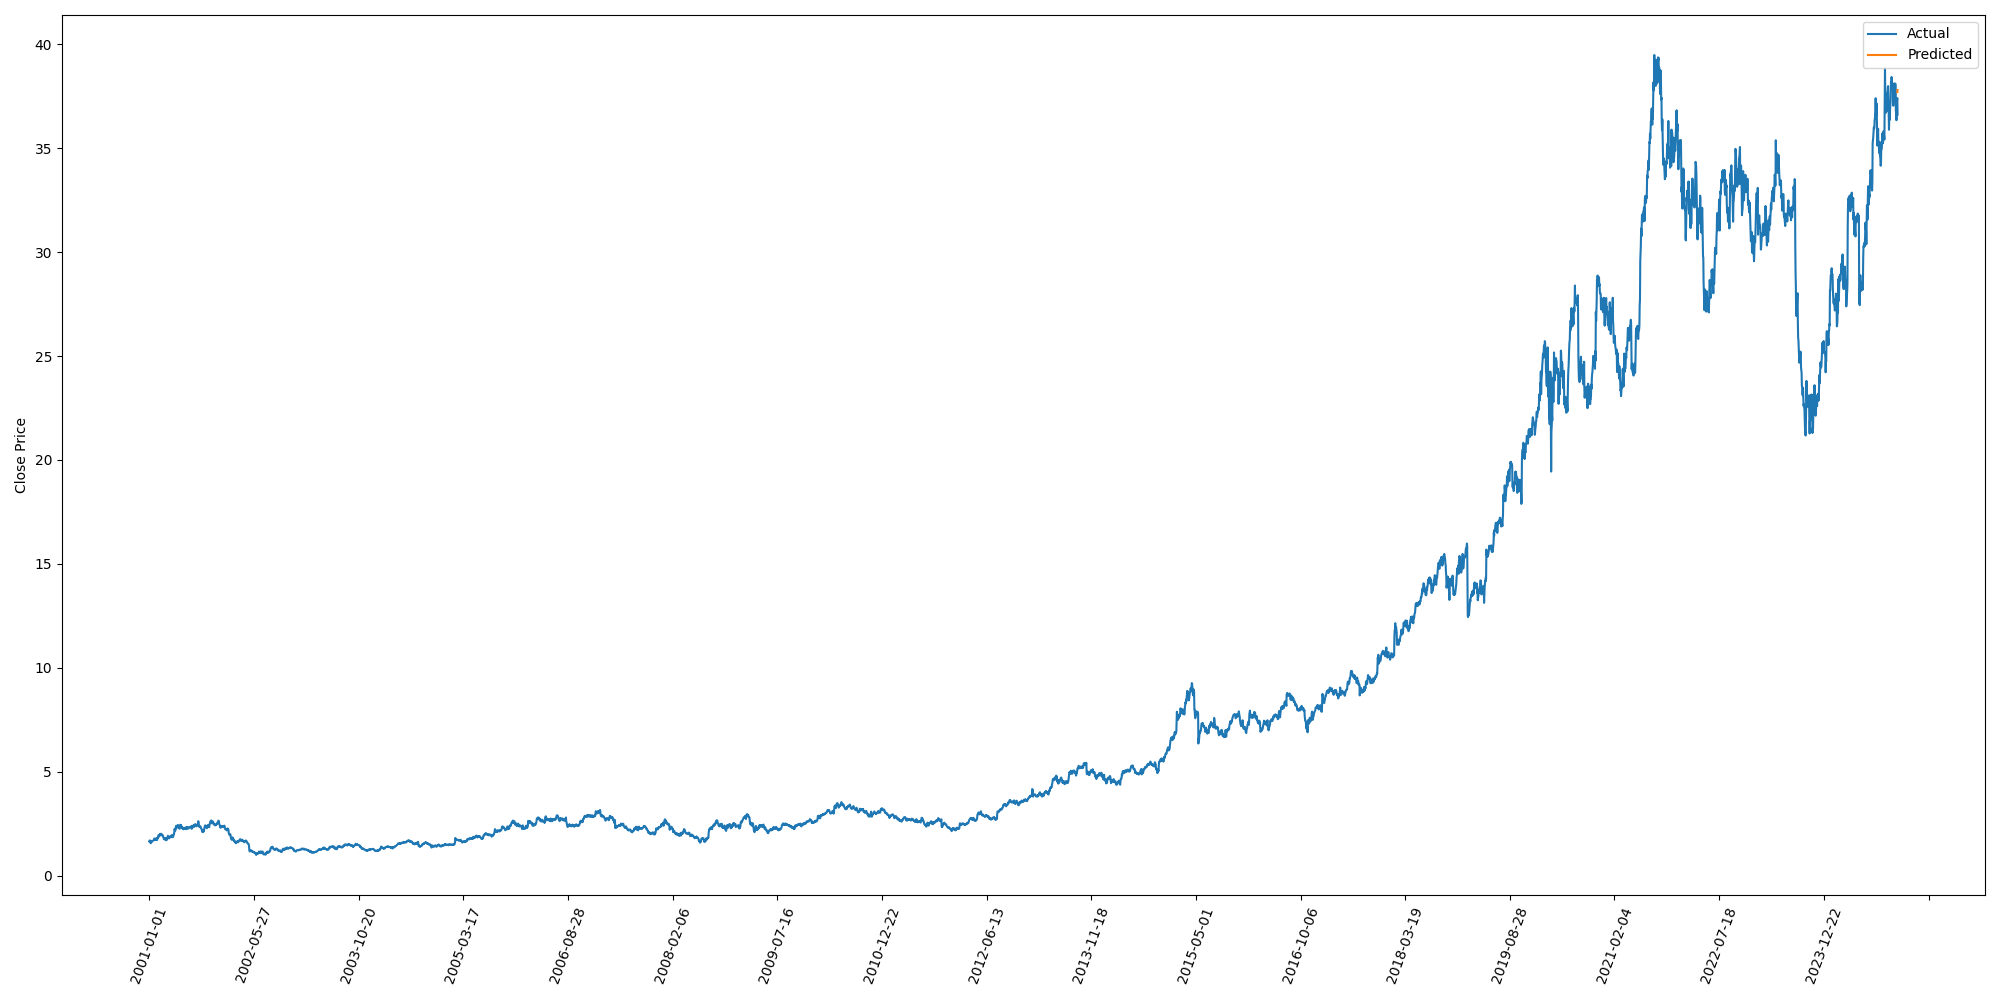
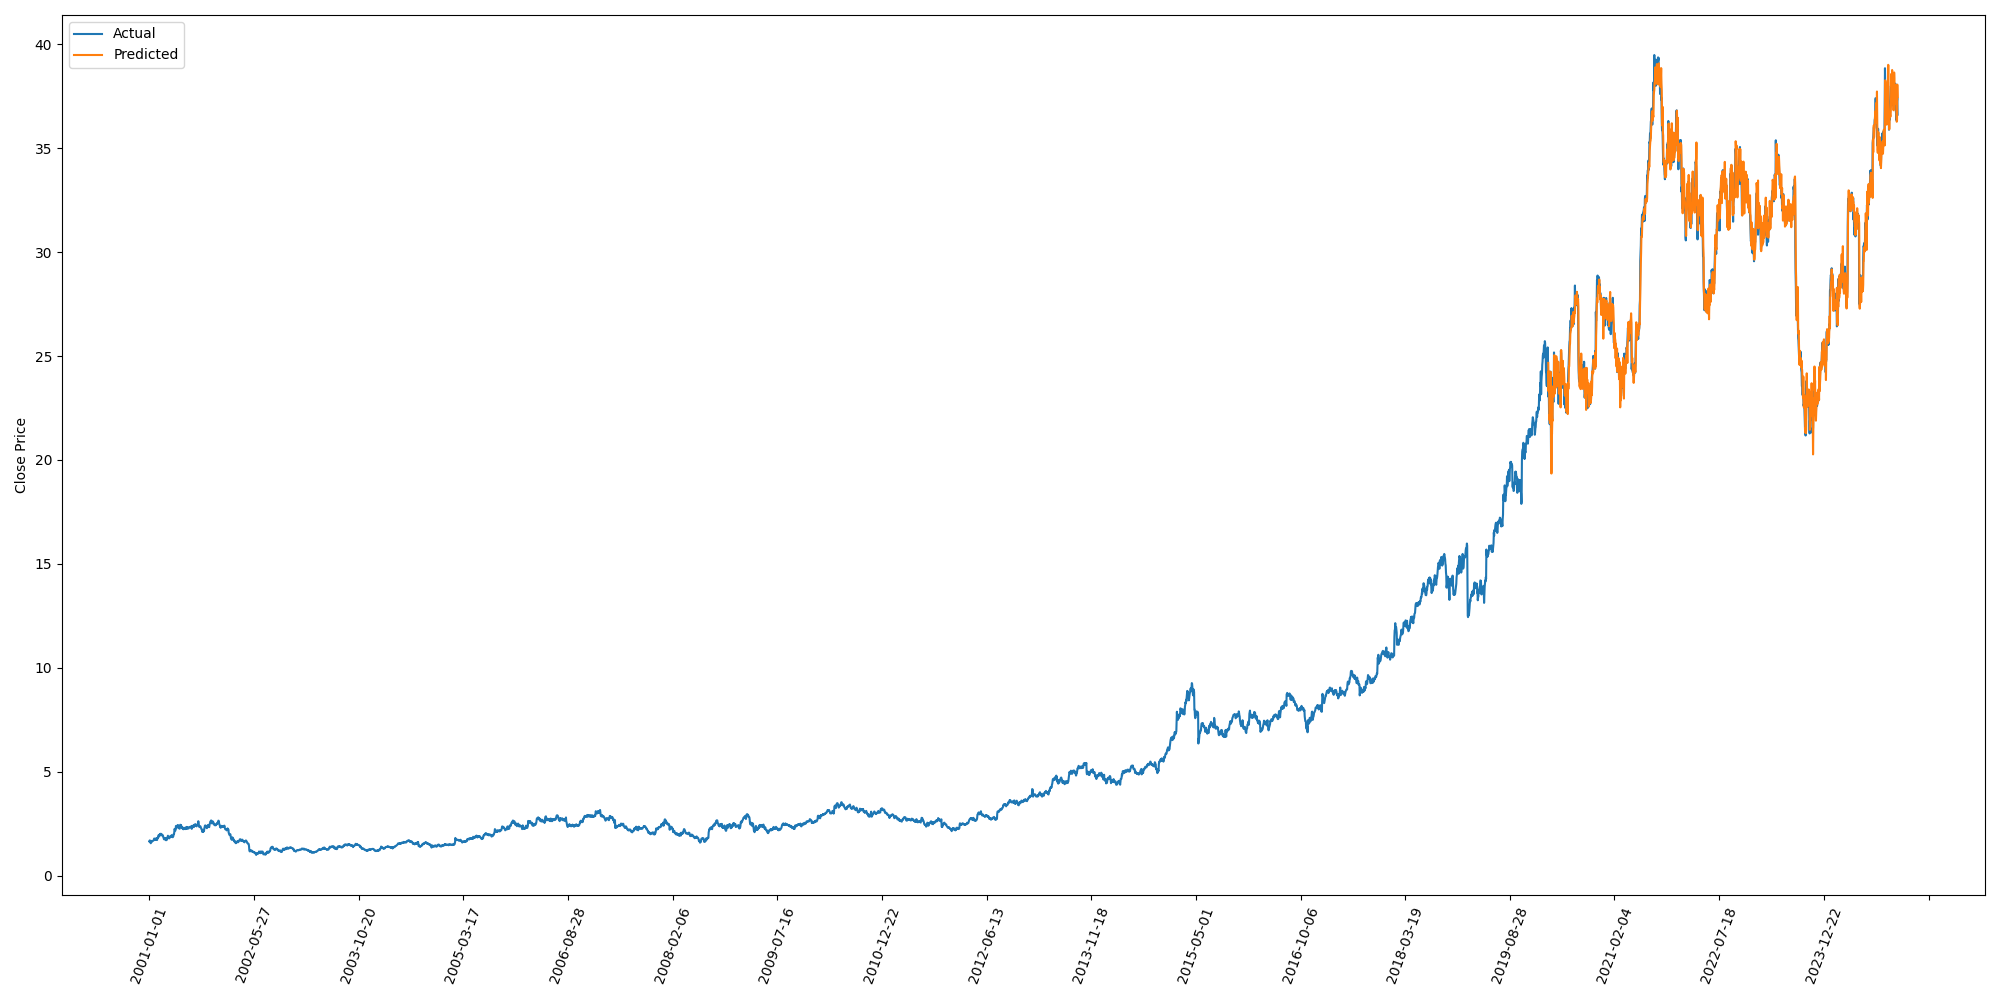
rf 7 and 8 done

diff --git a/rfmo2.py b/rfmo2.py
@@ -1,0 +1,118 @@
+import pandas as pd
+import numpy as np
+from pathlib import Path
+from sklearn.ensemble import RandomForestRegressor
+from sklearn.metrics import mean_absolute_error, mean_absolute_percentage_error, root_mean_squared_error, r2_score
+import matplotlib.pyplot as plt
+import matplotlib.dates as mdates
+import os
+
+
+def create_output_folder(ticker):
+    dirName = f"PDAOutput/PDA_{ticker}"
+    os.makedirs(dirName, exist_ok=True)
+
+
+def get_ticker(file_name):
+    strName = file_name.replace("datasets\\", "")
+    NameParts = strName.split('.')
+    return NameParts[0]
+
+
+def series_transform(data, in_n=1, out_n=1):
+    """Convert a series into supervised learning format (lags + target)."""
+    df = pd.DataFrame(data)
+    colmns = []
+
+    # input lags
+    for i in range(in_n, 0, -1):
+        colmns.append(df.shift(i))
+
+    # output (future values)
+    for i in range(0, out_n):
+        colmns.append(df.shift(-i))
+
+    aggregated = pd.concat(colmns, axis=1)
+    aggregated = aggregated.dropna()
+    return aggregated.values
+
+
+def rf_model(data, ticker):
+    df = pd.read_csv(data)
+
+    # Ensure Date is datetime
+    df["Date"] = pd.to_datetime(df["Date"])
+
+    # Get closing prices
+    series = df["Close"].copy()
+
+    # Turn into supervised dataset
+    data = series_transform(series, in_n=3, out_n=1)
+
+    # 80/20 split
+    train_size = int(len(data) * 0.8)
+    train, test = data[:train_size], data[train_size:]
+    trainX, trainy = train[:, :-1], train[:, -1]
+    testX, testy = test[:, :-1], test[:, -1]
+
+    # Train model ONCE
+    model = RandomForestRegressor(n_estimators=200, random_state=42, n_jobs=-1)
+    model.fit(trainX, trainy)
+
+    # Predict test set
+    yhat = model.predict(testX)
+
+    # Metrics
+    rmse = root_mean_squared_error(testy, yhat)
+    mape = mean_absolute_percentage_error(testy, yhat)
+    mae = mean_absolute_error(testy, yhat)
+    r2 = r2_score(testy, yhat)
+
+    print(f"{ticker} | MAE: {mae:.3f}, RMSE: {rmse:.3f}, "
+          f"MAPE: {mape*100:.2f}%, R2: {r2:.3f}")
+
+    # Save metrics to CSV
+    results = {
+        "Ticker": ticker,
+        "Model": "RF",
+        "MAE": mae,
+        "MAPE": mape,
+        "RMSE": rmse,
+        "R2": r2
+    }
+    results_df = pd.DataFrame([results])
+    results_df.to_csv("metrics.csv", mode='a+', header=not os.path.exists("metrics.csv"), index=False)
+
+    # Plot actual vs predicted
+    fig, ax1 = plt.subplots(figsize=(20, 10))
+    ax1.plot(df["Date"], df["Close"], label="Actual")
+    ax1.plot(df["Date"].iloc[len(df) - len(yhat):], yhat, label="Predicted")
+
+    ax1.xaxis.set_major_locator(mdates.YearLocator())
+    ax1.set_ylabel("Close Price")
+    plt.xticks(rotation=70)
+    plt.legend()
+
+    plt.tight_layout()
+    plt.savefig(f"PDAOutput/PDA_{ticker}/{ticker}_RFFinalMo2.png")
+    plt.clf()
+
+
+def main():
+    datasets = Path("datasets").rglob("*.csv")
+    dataset_list = []
+    ticker_list = []
+
+    for data in datasets:
+        filename = str(data)
+        ticker = get_ticker(str(data))
+        create_output_folder(ticker)
+        dataset_list.append(filename)
+        ticker_list.append(ticker)
+
+    # Example: run model on the 9th dataset
+    rf_model(dataset_list[8], ticker_list[8])
+
+
+if __name__ == "__main__":
+    main()

diff --git a/RF_ol.py b/RF_ol.py
@@ -118,14 +118,14 @@ def main():
         ticker_list.append(ticker)
        
     # rf_model(dataset_list[0], ticker_list[0])
-    rf_model(dataset_list[1], ticker_list[1])
-    rf_model(dataset_list[2], ticker_list[2])
-    rf_model(dataset_list[3], ticker_list[3])
-    rf_model(dataset_list[4], ticker_list[4])
-    rf_model(dataset_list[5], ticker_list[5])
-    rf_model(dataset_list[6], ticker_list[6])
+    # rf_model(dataset_list[1], ticker_list[1])
+    # rf_model(dataset_list[2], ticker_list[2])
+    # rf_model(dataset_list[3], ticker_list[3])
+    # rf_model(dataset_list[4], ticker_list[4])
+    # rf_model(dataset_list[5], ticker_list[5])
+    # rf_model(dataset_list[6], ticker_list[6])
     rf_model(dataset_list[7], ticker_list[7])
-    rf_model(dataset_list[8], ticker_list[8])
+    # rf_model(dataset_list[8], ticker_list[8])
     
     
 main()
